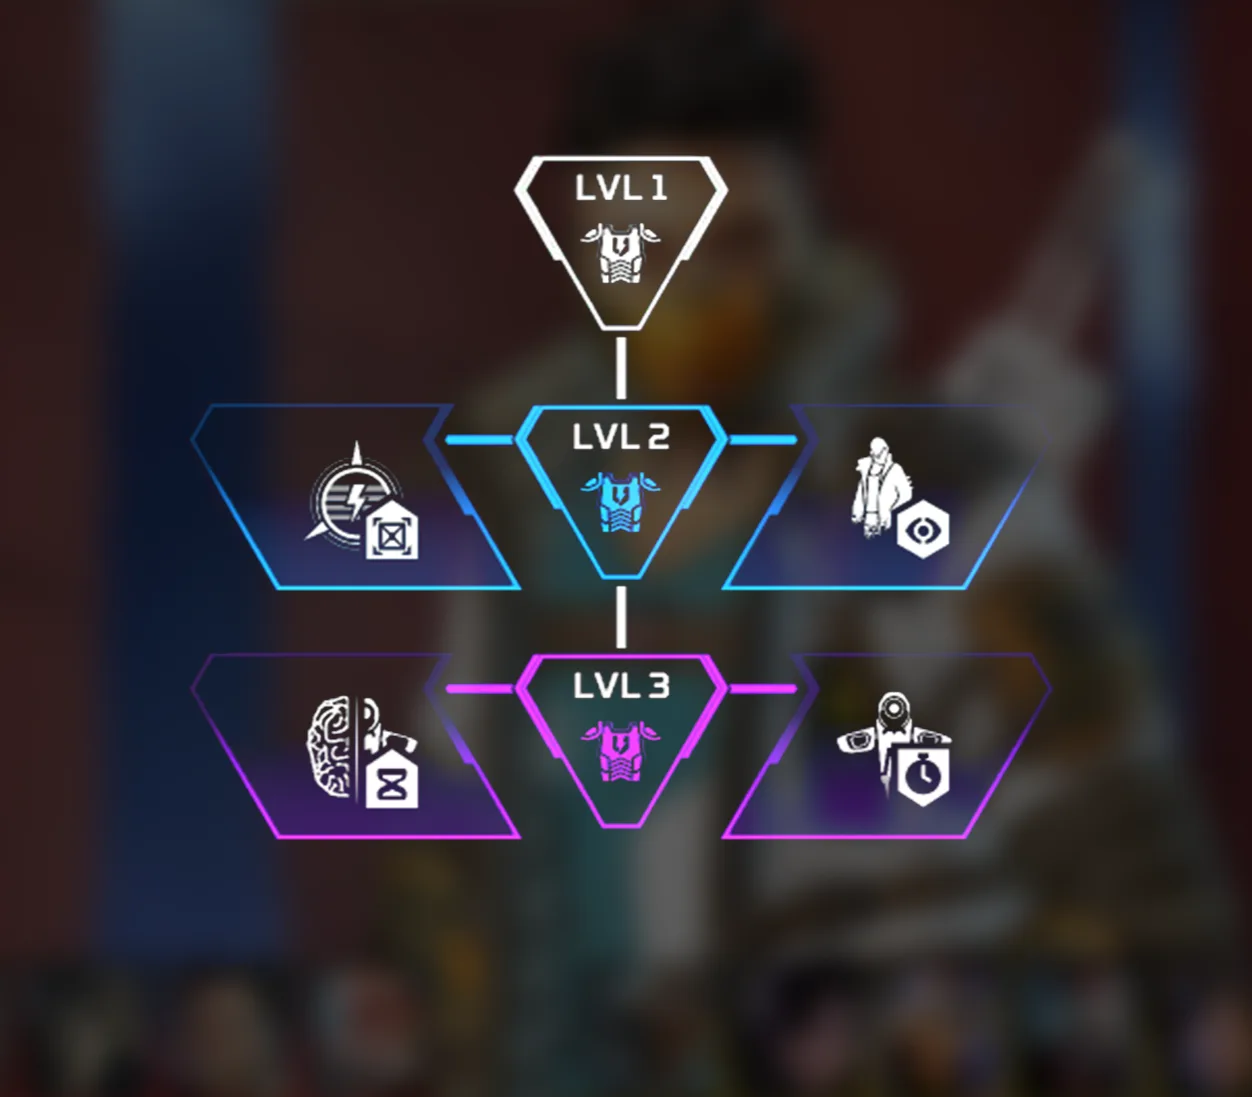
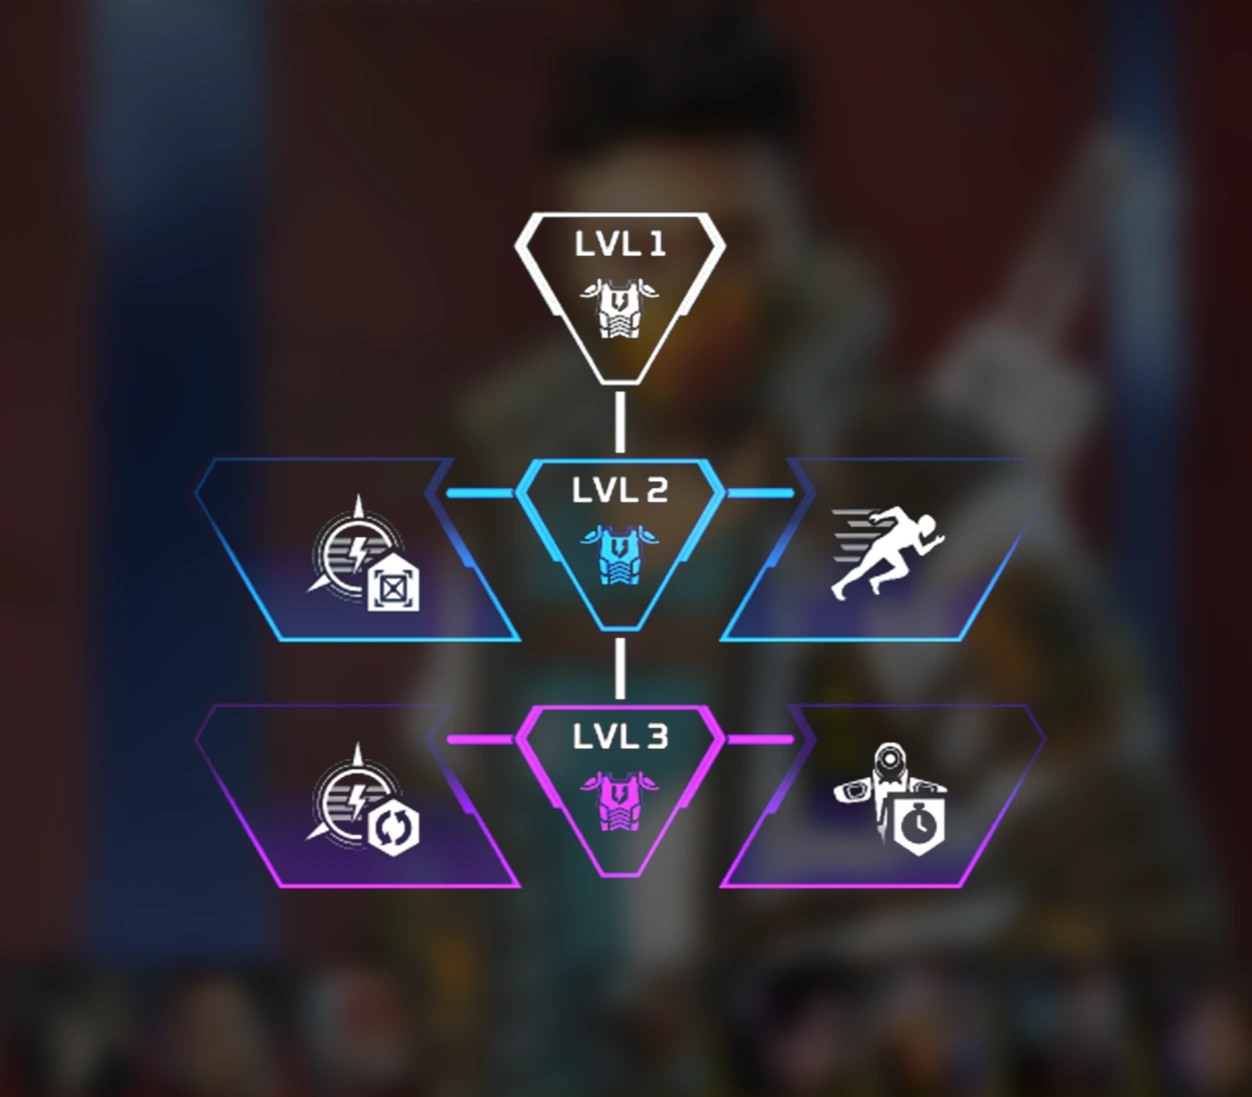
Updated to Apex Legends s27 Amped mid season changes, new upgrades for Octane, Crypto and Newcastle

diff --git a/src/components/events/UpgradeLegends/Skirmisher/skirmData.js b/src/components/events/UpgradeLegends/Skirmisher/skirmData.js
@@ -115,28 +115,28 @@ export const OCTANE_DATA = {
             id: 1,
             zone: 'Zone1',
             title: 'THICK SKIN',
-            description: 'Take 5 less Stim damage.',
+            description: 'Take 10 less Stim damage.',
             tooltipPosition: { top: -10, left: -460 }
         },
         {
             id: 2,
             zone: 'Zone2',
-            title: 'MAD HOPS',
-            description: 'Gain an extra Launch Pad charge.',
+            title: 'SQUAD RUSH',
+            description: 'Allies gain stim after landing from a jump pad.',
             tooltipPosition: { top: -10, left: 100 }
         },
         {
             id: 3,
             zone: 'Zone3',
-            title: 'THICK SKIN',
-            description: 'Take 5 less Stim damage.',
+            title: 'DAREDEVIL',
+            description: 'Breaking enemy shields increases reload speed and stim surge last longer the less health you have.',
             tooltipPosition: { top: 100, left: -460 }
         },
         {
             id: 4,
             zone: 'Zone4',
-            title: 'AIRBONE AGILITY',
-            description: 'Change directions with Launch Pad double-jump.',
+            title: 'TRIPLE JUMP',
+            description: 'Upgrades the jump pad to give three jumps.',
             tooltipPosition: { top: 100, left: 100 }
         }
     ]

diff --git a/src/components/events/UpgradeLegends/Support/suppData.js b/src/components/events/UpgradeLegends/Support/suppData.js
@@ -186,15 +186,15 @@ export const NEWCASTLE_DATA = {
         {
             id: 1,
             zone: 'Zone1',
-            title: 'HERO\'S HUSTLE',
-            description: 'Increased move speed while reviving.',
+            title: 'STRONGHOLD',
+            description: '+500 castle wall HP. Extend energized duration to 4min.',
             tooltipPosition: { top: -10, left: -460 }
         },
         {
             id: 2,
             zone: 'Zone2',
-            title: 'SWIFT SHIELD',
-            description: 'Increase Mobile Shield speed.',
+            title: 'READY TO RUMBLE',
+            description: 'Reload all weapons and begin full regen after reviving allies.',
             tooltipPosition: { top: -10, left: 100 }
         },
         {
@@ -207,8 +207,8 @@ export const NEWCASTLE_DATA = {
         {
             id: 4,
             zone: 'Zone4',
-            title: 'STRONGHOLD',
-            description: 'Castle Wall HP increased by 500. Extends energized duration to 3min.',
+            title: 'DEFENSIVE LINE',
+            description: 'Tactical and passive shields will repel the first enemy that comes near them.',
             tooltipPosition: { top: 100, left: 100 }
         }
     ]

diff --git a/src/components/events/UpgradeLegends/Recon/reconData.js b/src/components/events/UpgradeLegends/Recon/reconData.js
@@ -49,22 +49,22 @@ export const CRYPTO_DATA = {
         {
             id: 2,
             zone: 'Zone2',
-            title: 'OFF THE GRID',
-            description: 'Crypto cloaks when in drone.',
+            title: 'ALLY.MOVETO()',
+            description: 'Crypto places a tracker on allies, allowing him to trailblaze to them.',
             tooltipPosition: { top: -10, left: 100 }
         },
         {
             id: 3,
             zone: 'Zone3',
-            title: 'SATELLITE IMAGERY',
-            description: '+1.5s scan duration. Scans on Ult hit.',
+            title: 'POWER COUPLING',
+            description: 'Gain ult charge from using Survey Beacons and scanning enemies with drone.',
             tooltipPosition: { top: 100, left: -460 }
         },
         {
             id: 4,
             zone: 'Zone4',
             title: 'HACKATHON',
-            description: 'Double drone recharge rate; gain speed boost when it explodes.',
+            description: 'Double drone recharge rate; gain speed boost when it explodes. (EMP or destroyed)',
             tooltipPosition: { top: 100, left: 100 }
         }
     ]
